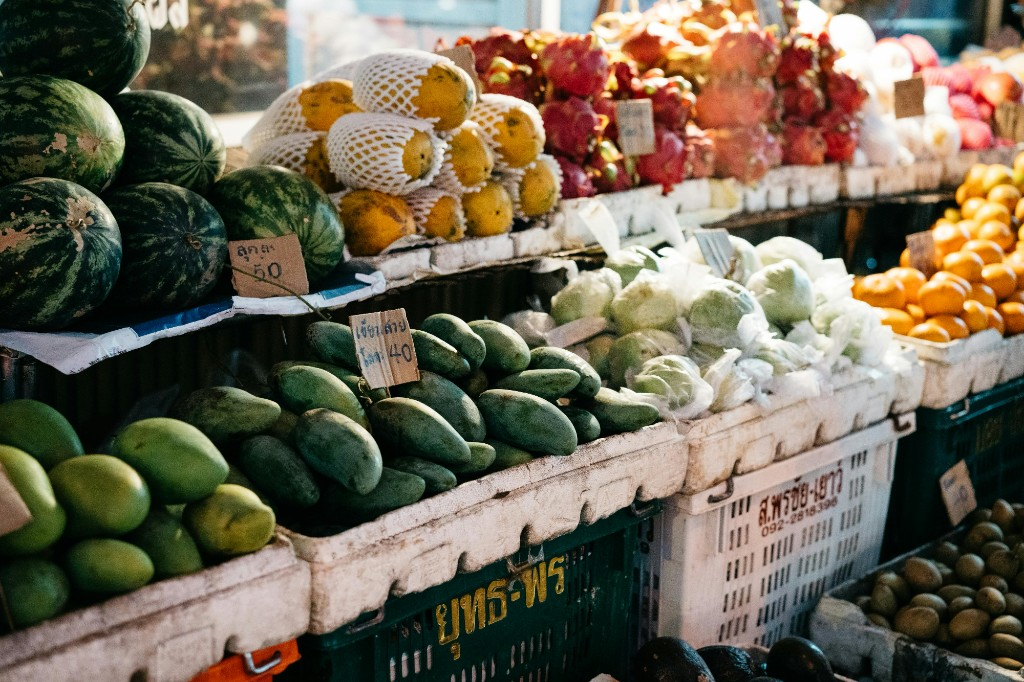
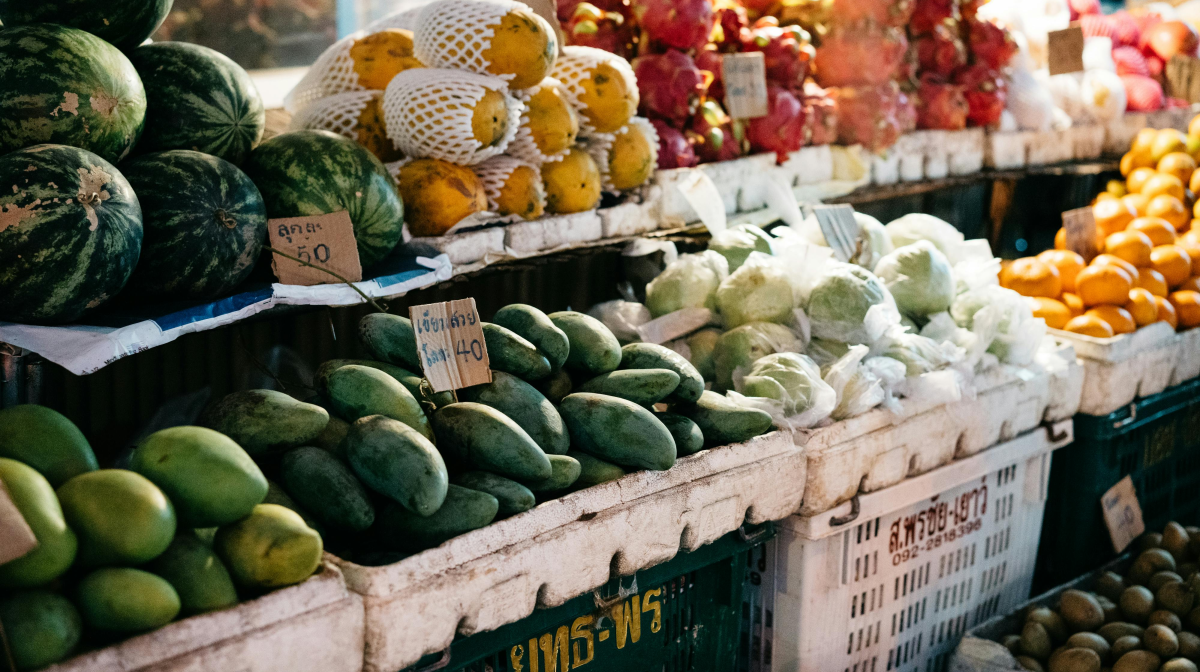
fix: resolve initial load mocks flash, details navigation, and set up optimized WebP commodity images

diff --git a/src/features/commodities/CommodityDetailPage.tsx b/src/features/commodities/CommodityDetailPage.tsx
@@ -39,7 +39,7 @@ export function CommodityDetailPage() {
   const { id } = useParams<{ id: string }>()
   const navigate = useNavigate()
   const [feedbackGiven, setFeedbackGiven] = useState<'yes' | 'no' | null>(null)
-  const { commodities } = useOutletContext<{ commodities: Commodity[] }>()
+  const { commodities, isLoading: isListLoading } = useOutletContext<{ commodities: Commodity[], isLoading: boolean }>()
 
   const [liveForecast, setLiveForecast] = useState<PredictFoodPriceResponse | null>(null)
   const [isLoading, setIsLoading] = useState(false)
@@ -81,52 +81,7 @@ export function CommodityDetailPage() {
       .slice(0, 3)
   }, [commodity?.id, commodities])
 
-  if (!commodity) {
-    return (
-      <div className="py-12 text-center">
-        <h2 className="text-xl font-bold text-foreground">Commodity not found</h2>
-        <p className="mt-2 text-muted">The requested commodity details could not be found.</p>
-        <Link
-          to="/commodities"
-          className="mt-6 inline-flex items-center gap-2 rounded-pill bg-brand-green px-4 py-2 text-sm font-semibold text-white shadow-sm hover:bg-brand-green-hover"
-        >
-          <ArrowLeft className="size-4" /> Back to Commodities
-        </Link>
-      </div>
-    )
-  }
-
-  // Calculate values
-  const isBackendMock = liveForecast && 
-    (liveForecast as any).request_echo?.food_item === 'yam' && 
-    commodity.id !== 'yam-tuber';
-
-  const hasForecast = isLoading ? false : (((!!liveForecast && !isBackendMock) || !!commodity.forecast))
-  
-  const forecastPercent = (liveForecast && !isBackendMock)
-    ? liveForecast.predicted_price_change_percent 
-    : (commodity.forecast ? commodity.forecast.predicted_price_change_percent : commodity.changePct)
-    
-  const forecastPrice = (liveForecast && !isBackendMock)
-    ? commodity.todayPrice * (1 + liveForecast.predicted_price_change_percent / 100)
-    : commodity.forecastPrice
-    
-  const direction = forecastPercent >= 0 ? 'increase' : 'decrease'
-
-  const explanationText = (!isBackendMock && liveForecast?.summary?.text)
-    || (!isBackendMock && liveForecast?.season_remark)
-    || commodity.forecast?.summary 
-    || `${commodity.name} is expected to ${direction} by about ${Math.abs(forecastPercent).toFixed(1)}% over the next month.`
-
-  const driversList = (liveForecast && !isBackendMock)
-    ? liveForecast.xai_explanation?.top_driving_features 
-    : (commodity.forecast?.xai_explanation?.top_driving_features || [])
-
-  const baseMarketTrend = (liveForecast && !isBackendMock)
-    ? liveForecast.xai_explanation?.base_market_trend
-    : (commodity.forecast?.xai_explanation?.base_market_trend || 0)
-
-  if (isLoading) {
+  if (isListLoading || isLoading) {
     return (
       <div className="page-stack animate-pulse">
         {/* Back button placeholder */}
@@ -192,6 +147,53 @@ export function CommodityDetailPage() {
       </div>
     )
   }
+
+  if (!commodity) {
+    return (
+      <div className="py-12 text-center">
+        <h2 className="text-xl font-bold text-foreground">Commodity not found</h2>
+        <p className="mt-2 text-muted">The requested commodity details could not be found.</p>
+        <Link
+          to="/commodities"
+          className="mt-6 inline-flex items-center gap-2 rounded-pill bg-brand-green px-4 py-2 text-sm font-semibold text-white shadow-sm hover:bg-brand-green-hover"
+        >
+          <ArrowLeft className="size-4" /> Back to Commodities
+        </Link>
+      </div>
+    )
+  }
+
+  // Calculate values
+  const isBackendMock = liveForecast && 
+    (liveForecast as any).request_echo?.food_item === 'yam' && 
+    commodity.id !== 'yam-tuber';
+
+  const hasForecast = (!!liveForecast && !isBackendMock) || !!commodity.forecast
+  
+  const forecastPercent = (liveForecast && !isBackendMock)
+    ? liveForecast.predicted_price_change_percent 
+    : (commodity.forecast ? commodity.forecast.predicted_price_change_percent : commodity.changePct)
+    
+  const forecastPrice = (liveForecast && !isBackendMock)
+    ? commodity.todayPrice * (1 + liveForecast.predicted_price_change_percent / 100)
+    : commodity.forecastPrice
+    
+  const direction = forecastPercent >= 0 ? 'increase' : 'decrease'
+
+  const explanationText = (!isBackendMock && liveForecast?.summary?.text)
+    || (!isBackendMock && liveForecast?.season_remark)
+    || commodity.forecast?.summary 
+    || `${commodity.name} is expected to ${direction} by about ${Math.abs(forecastPercent).toFixed(1)}% over the next month.`
+
+  const driversList = (liveForecast && !isBackendMock)
+    ? liveForecast.xai_explanation?.top_driving_features 
+    : (commodity.forecast?.xai_explanation?.top_driving_features || [])
+
+  const baseMarketTrend = (liveForecast && !isBackendMock)
+    ? liveForecast.xai_explanation?.base_market_trend
+    : (commodity.forecast?.xai_explanation?.base_market_trend || 0)
+
+
 
   return (
     <div className="page-stack">

diff --git a/src/data/images.ts b/src/data/images.ts
@@ -1,27 +1,69 @@
-/** Optimized WebP paths served from /public/images (see scripts/optimize-images.mjs) */
+/** Optimized WebP paths served from /public/images (see scripts/optimize-all-commodities.mjs) */
 export const heroMarketImage = '/images/hero-market.webp'
 
 export const commodityImages = {
-  'tomato-tomato': '/images/tomatoes.webp',
-  'rice-imported': '/images/rice.webp',
-  'potato-sweet': '/images/scotch-bonnet.webp',
-  'yam-tuber': '/images/yam.webp',
-  'garri-white': '/images/white-garri.webp',
-  'beans-brown': '/images/brown-beans.webp',
-  'potato-irish': '/images/onions.webp',
-  'eggs-agric-12pcs': '/images/eggs.webp',
+  'beans-brown': '/images/beans-brown.webp',
+  'beans-white-black-eye': '/images/beans-white-black-eye.webp',
+  'beef-bone-in': '/images/beef-bone-in.webp',
+  'beef-boneless': '/images/beef-boneless.webp',
+  'bread-sliced': '/images/bread-sliced.webp',
+  'bread-unsliced': '/images/bread-unsliced.webp',
+  'chicken-feet': '/images/chicken-feet.webp',
+  'chicken-frozen': '/images/chicken-frozen.webp',
+  'chicken-wings': '/images/chicken-wings.webp',
+  'eggs-agric-1pcs': '/images/eggs-agric-1pcs.webp',
+  'eggs-agric-12pcs': '/images/eggs-agric-12pcs.webp',
+  'fish-catfish-smoked': '/images/fish-catfish-smoked.webp',
+  'fish-fish': '/images/fish-fish.webp',
+  'fish-mudfish': '/images/fish-mudfish.webp',
+  'garri-white': '/images/garri-white.webp',
+  'garri-yellow': '/images/garri-yellow.webp',
+  'milk-evaporated-tin': '/images/milk-evaporated-tin.webp',
+  'oil-groundnut': '/images/oil-groundnut.webp',
+  'oil-palm': '/images/oil-palm.webp',
+  'oil-vegetable': '/images/oil-vegetable.webp',
+  'potato-irish': '/images/potato-irish.webp',
+  'potato-sweet': '/images/potato-sweet.webp',
+  'rice-agric': '/images/rice-agric.webp',
+  'rice-imported': '/images/rice-imported.webp',
+  'rice-local': '/images/rice-local.webp',
+  'rice-medium-grained': '/images/rice-medium-grained.webp',
+  'rice-ofada': '/images/rice-ofada.webp',
+  'tomato-tomato': '/images/tomato-tomato.webp',
+  'yam-tuber': '/images/yam-tuber.webp',
 } as const
 
 /** PNG fallbacks for older browsers */
 export const commodityImageFallbacks = {
-  'tomato-tomato': '/images/tomatoes.png',
-  'rice-imported': '/images/rice.png',
-  'potato-sweet': '/images/scotch-bonnet.png',
-  'yam-tuber': '/images/yam.png',
-  'garri-white': '/images/white-garri.png',
-  'beans-brown': '/images/brown-beans.png',
-  'potato-irish': '/images/onions.png',
-  'eggs-agric-12pcs': '/images/eggs.png',
+  'beans-brown': '/images/beans-brown.png',
+  'beans-white-black-eye': '/images/beans-white-black-eye.png',
+  'beef-bone-in': '/images/beef-bone-in.png',
+  'beef-boneless': '/images/beef-boneless.png',
+  'bread-sliced': '/images/bread-sliced.png',
+  'bread-unsliced': '/images/bread-unsliced.png',
+  'chicken-feet': '/images/chicken-feet.png',
+  'chicken-frozen': '/images/chicken-frozen.png',
+  'chicken-wings': '/images/chicken-wings.png',
+  'eggs-agric-1pcs': '/images/eggs-agric-1pcs.png',
+  'eggs-agric-12pcs': '/images/eggs-agric-12pcs.png',
+  'fish-catfish-smoked': '/images/fish-catfish-smoked.png',
+  'fish-fish': '/images/fish-fish.png',
+  'fish-mudfish': '/images/fish-mudfish.png',
+  'garri-white': '/images/garri-white.png',
+  'garri-yellow': '/images/garri-yellow.png',
+  'milk-evaporated-tin': '/images/milk-evaporated-tin.png',
+  'oil-groundnut': '/images/oil-groundnut.png',
+  'oil-palm': '/images/oil-palm.png',
+  'oil-vegetable': '/images/oil-vegetable.png',
+  'potato-irish': '/images/potato-irish.png',
+  'potato-sweet': '/images/potato-sweet.png',
+  'rice-agric': '/images/rice-agric.png',
+  'rice-imported': '/images/rice-imported.png',
+  'rice-local': '/images/rice-local.png',
+  'rice-medium-grained': '/images/rice-medium-grained.png',
+  'rice-ofada': '/images/rice-ofada.png',
+  'tomato-tomato': '/images/tomato-tomato.png',
+  'yam-tuber': '/images/yam-tuber.png',
 } as const
 
 export const heroMarketImageFallback = '/images/hero-market.png'
@@ -30,12 +72,13 @@ export function getCommodityImage(id: string): string {
   if (id in commodityImages) {
     return commodityImages[id as keyof typeof commodityImages]
   }
-  return commodityImages['garri-white']
+  return `/images/${id}.webp`
 }
 
 export function getCommodityImageFallback(id: string): string {
   if (id in commodityImageFallbacks) {
     return commodityImageFallbacks[id as keyof typeof commodityImageFallbacks]
   }
-  return commodityImageFallbacks['garri-white']
+  return `/images/${id}.png`
 }
+

diff --git a/src/components/CommodityCard.tsx b/src/components/CommodityCard.tsx
@@ -127,3 +127,43 @@ export function CommodityCard({ commodity, onClick, className }: CommodityCardPr
     </article>
   )
 }
+
+export function CommodityCardSkeleton() {
+  return (
+    <div className="overflow-hidden rounded-card border border-border bg-surface shadow-sm animate-pulse">
+      {/* Image skeleton */}
+      <div className="h-40 bg-surface-soft relative">
+        <div className="absolute left-3 top-3 h-5 w-16 rounded bg-border" />
+        <div className="absolute right-3 top-3 h-5 w-12 rounded bg-border" />
+      </div>
+
+      {/* Info skeleton */}
+      <div className="p-4 space-y-3">
+        <div className="space-y-1.5">
+          <div className="h-4 w-2/3 rounded bg-border" />
+          <div className="h-3 w-1/3 rounded bg-border" />
+        </div>
+
+        <div className="my-1.5 h-px bg-border" />
+
+        <div className="grid grid-cols-2 gap-3">
+          <div className="space-y-1.5">
+            <div className="h-3 w-10 rounded bg-border" />
+            <div className="h-5 w-20 rounded bg-border" />
+            <div className="h-3 w-12 rounded bg-border" />
+          </div>
+          <div className="space-y-1.5 flex flex-col items-end">
+            <div className="h-3 w-16 rounded bg-border" />
+            <div className="h-5 w-20 rounded bg-border" />
+          </div>
+        </div>
+
+        <div className="my-1 h-px bg-border" />
+
+        <div className="flex justify-end pt-1">
+          <div className="h-4 w-12 rounded bg-border" />
+        </div>
+      </div>
+    </div>
+  )
+}

diff --git a/src/features/home/HomePage.tsx b/src/features/home/HomePage.tsx
@@ -1,7 +1,7 @@
 import { Activity, Search, Sparkles, TrendingDown, TrendingUp } from 'lucide-react'
 import { useState } from 'react'
 import { useNavigate, useOutletContext } from 'react-router-dom'
-import { CommodityCard, GuestChip, OptimizedImage, PageHeader, SearchBar, StatCard } from '../../components'
+import { CommodityCard, CommodityCardSkeleton, GuestChip, OptimizedImage, PageHeader, SearchBar, StatCard } from '../../components'
 import { marketStats } from '../../data/commodities'
 import { heroMarketImage, heroMarketImageFallback } from '../../data/images'
 import { cn } from '../../lib/utils'
@@ -11,7 +11,7 @@ import type { Commodity } from '../../data/types'
 export function HomePage() {
   const [searchQuery, setSearchQuery] = useState('')
   const navigate = useNavigate()
-  const { commodities } = useOutletContext<{ commodities: Commodity[] }>()
+  const { commodities, isLoading } = useOutletContext<{ commodities: Commodity[], isLoading: boolean }>()
 
   const handleCommodityClick = (id: string) => {
     recordCommodityClick(id).catch((err) => console.error('Failed to record click:', err))
@@ -126,11 +126,19 @@ export function HomePage() {
             </p>
           </div>
           <p className="text-sm font-medium text-muted sm:shrink-0">
-            {searchQuery.trim() ? '' : 'Top '}{filteredCommodities.length} {filteredCommodities.length === 1 ? 'item' : 'items'}
+            {isLoading
+              ? 'Loading items...'
+              : `${searchQuery.trim() ? '' : 'Top '}${filteredCommodities.length} ${filteredCommodities.length === 1 ? 'item' : 'items'}`}
           </p>
         </div>
 
-        {filteredCommodities.length === 0 ? (
+        {isLoading ? (
+          <div className="grid grid-cols-1 gap-4 sm:grid-cols-2 sm:gap-5 lg:grid-cols-3">
+            {[...Array(6)].map((_, i) => (
+              <CommodityCardSkeleton key={i} />
+            ))}
+          </div>
+        ) : filteredCommodities.length === 0 ? (
           <div className="rounded-card border border-border bg-surface p-12 text-center">
             <Search className="mx-auto size-8 text-muted" strokeWidth={1.5} />
             <p className="mt-4 text-base font-bold text-foreground">No commodities found</p>

diff --git a/src/features/commodities/CommoditiesPage.tsx b/src/features/commodities/CommoditiesPage.tsx
@@ -1,7 +1,7 @@
 import { useEffect, useState } from 'react'
 import { useNavigate, useOutletContext } from 'react-router-dom'
 import { Search } from 'lucide-react'
-import { CommodityCard, GuestChip, PageHeader, SearchBar } from '../../components'
+import { CommodityCard, CommodityCardSkeleton, GuestChip, PageHeader, SearchBar } from '../../components'
 import { getAllFoods, predictFoodPrice, recordCommodityClick } from '@/api/index'
 import type { Commodity } from '@/data/types'
 import { cn } from '../../lib/utils'
@@ -17,7 +17,7 @@ const CATEGORIES = [
 
 export function CommoditiesPage() {
   const navigate = useNavigate()
-  const { commodities } = useOutletContext<{ commodities: Commodity[] }>()
+  const { commodities, isLoading } = useOutletContext<{ commodities: Commodity[], isLoading: boolean }>()
   const [searchQuery, setSearchQuery] = useState('')
   const [selectedCategory, setSelectedCategory] = useState('ALL')
   const [data, setData] = useState<any[]>([])
@@ -115,11 +115,17 @@ export function CommoditiesPage() {
             <p className="mt-1 text-sm text-muted">Browse forecasts across monitored markets</p>
           </div>
           <p className="text-sm font-medium text-muted sm:shrink-0">
-            {filteredCommodities.length} {filteredCommodities.length === 1 ? 'item' : 'items'}
+            {isLoading ? 'Loading items...' : `${filteredCommodities.length} ${filteredCommodities.length === 1 ? 'item' : 'items'}`}
           </p>
         </div>
 
-        {filteredCommodities.length === 0 ? (
+        {isLoading ? (
+          <div className="grid grid-cols-1 gap-4 sm:grid-cols-2 sm:gap-5 lg:grid-cols-3">
+            {[...Array(6)].map((_, i) => (
+              <CommodityCardSkeleton key={i} />
+            ))}
+          </div>
+        ) : filteredCommodities.length === 0 ? (
           <div className="rounded-card border border-border bg-surface p-12 text-center">
             <Search className="mx-auto size-8 text-muted" strokeWidth={1.5} />
             <p className="mt-4 text-base font-bold text-foreground">No commodities found</p>

diff --git a/src/layouts/AppShell.tsx b/src/layouts/AppShell.tsx
@@ -96,7 +96,8 @@ function SidebarContent({ onNavigate, className }: SidebarContentProps) {
 export function AppShell() {
   const [mobileNavOpen, setMobileNavOpen] = useState(false)
   const location = useLocation()
-  const [commoditiesList, setCommoditiesList] = useState<Commodity[]>(mockCommodities)
+  const [commoditiesList, setCommoditiesList] = useState<Commodity[]>([])
+  const [isLoading, setIsLoading] = useState(true)
 
   useEffect(() => {
     const toTitleCase = (str: string) => {
@@ -140,6 +141,14 @@ export function AppShell() {
       })
       .catch((err) => {
         console.error("Failed to load commodities from backend, using fallback mock data:", err)
+        // Optionally fall back to mockCommodities if server is dead
+        setCommoditiesList(mockCommodities.map(item => ({
+          ...item,
+          name: toTitleCase(item.name)
+        })) as any)
+      })
+      .finally(() => {
+        setIsLoading(false)
       })
   }, [])
 
@@ -227,7 +236,7 @@ export function AppShell() {
 
         <div className="min-h-0 flex-1 overflow-y-auto overflow-x-hidden bg-background">
           <main className="mx-auto w-full max-w-6xl px-4 py-5 sm:px-6 sm:py-6 lg:px-8 lg:py-7 pb-[max(1.25rem,env(safe-area-inset-bottom))]">
-            <Outlet context={{ commodities: commoditiesList }} />
+            <Outlet context={{ commodities: commoditiesList, isLoading }} />
           </main>
         </div>
       </div>

diff --git a/src/components/index.ts b/src/components/index.ts
@@ -1,7 +1,7 @@
 export { Button, type ButtonProps } from './Button'
 export { CategoryBadge, type CategoryBadgeProps } from './CategoryBadge'
 export { ChangeBadge, type ChangeBadgeProps } from './ChangeBadge'
-export { CommodityCard, type CommodityCardProps } from './CommodityCard'
+export { CommodityCard, CommodityCardSkeleton, type CommodityCardProps } from './CommodityCard'
 export { GuestChip, type GuestChipProps } from './GuestChip'
 export {
   IconSectionHeader,